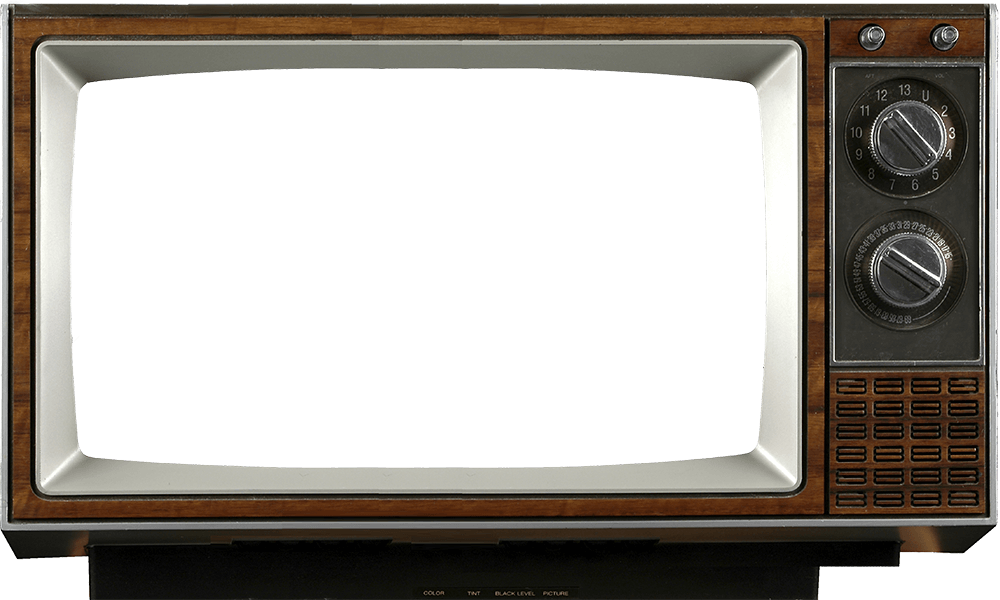
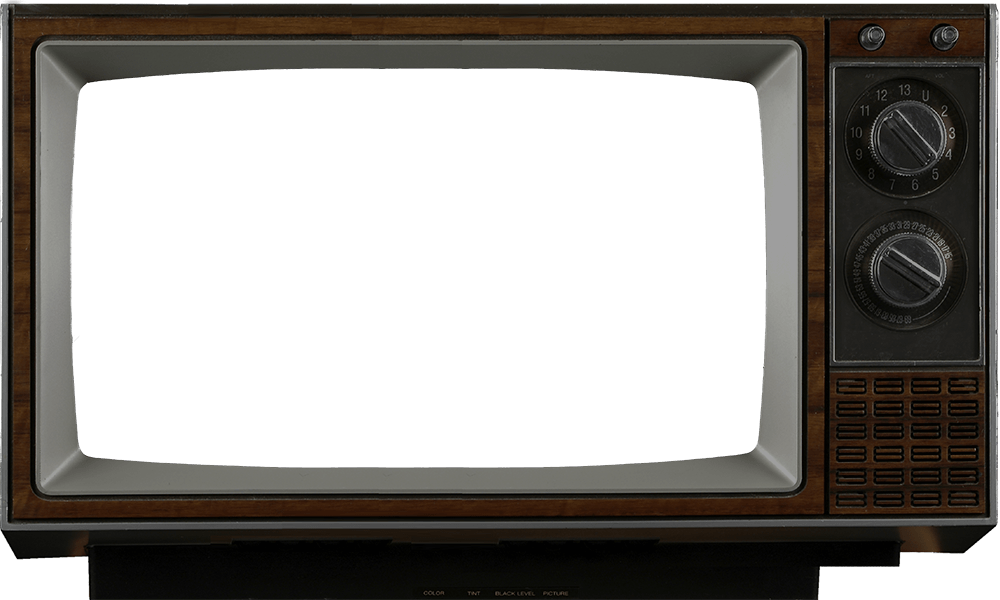
final page style

Changed region(s): [[0.0, 0.0, 1.0, 0.93]]

diff --git a/static/teszt.css b/static/teszt.css
@@ -1,5 +1,6 @@
 body{
     height: 100%;
+    background-image: url("/static/images/background.png");
 }
 
 #bullet_indicator{
@@ -23,7 +24,6 @@ body{
    background-image: url("cropped.jpg");
     border-radius: 5% / 80%;
     box-shadow: 1px 1px 20px;
-    opacity: 0.9;
     border: 6px solid black;
 }
 
@@ -62,7 +62,7 @@ body{
 
 .game-border{
   position: absolute;
-  top: 50%;
+  top: 57.5%;
   left: 50%;
   transform: translate(-50%, -50%);
   height: 800px;
@@ -72,6 +72,7 @@ body{
   overflow: hidden;
   background-image: url("/static/images/tv.png");
     background-size: cover;
+    background-blend-mode: luminosity;
 }
 
 
